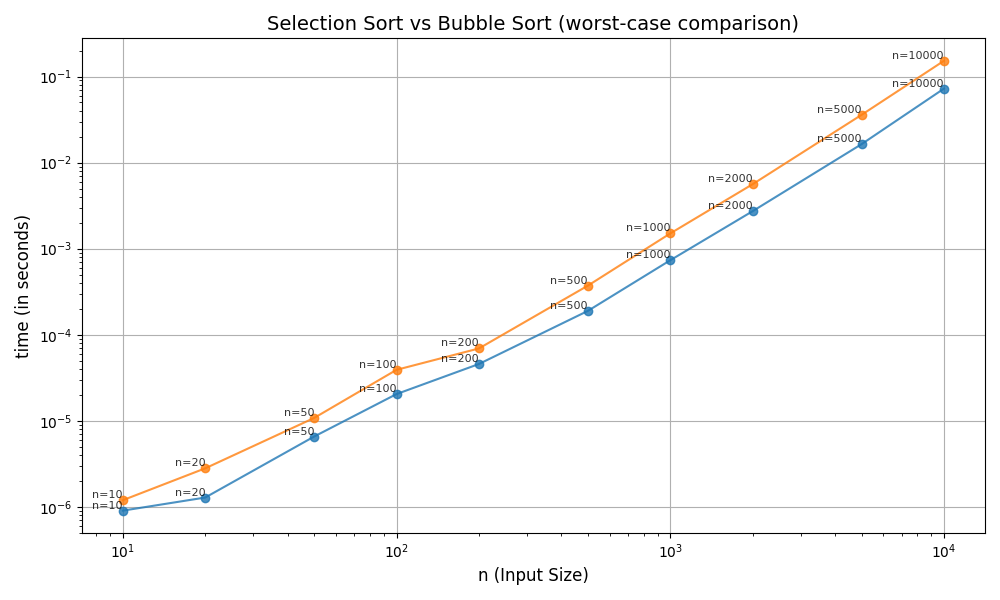
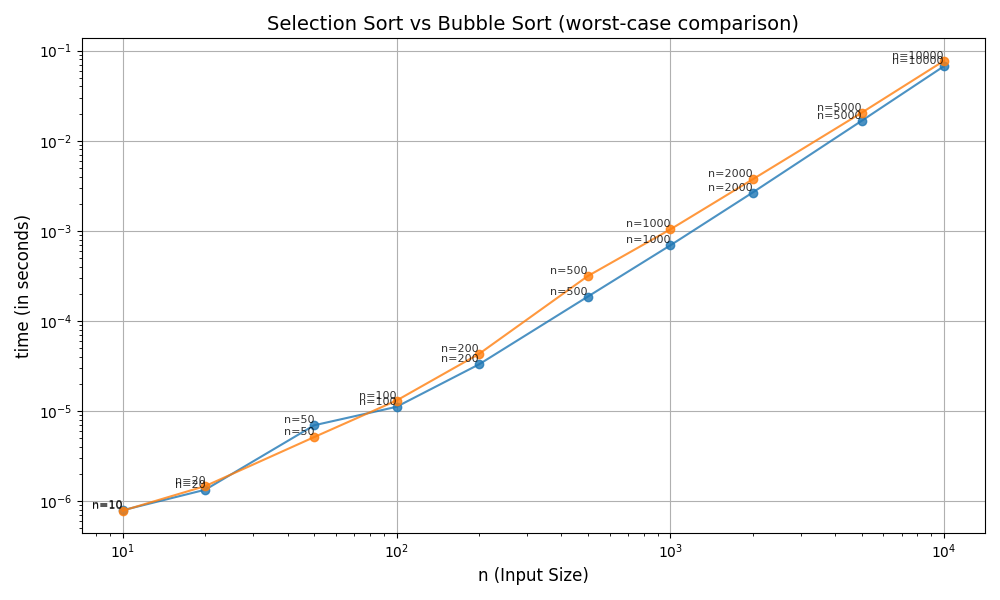
Corrected algorithm and array population logic

diff --git a/selectionsort_vs_bubblesort/sort_evaluation.c b/selectionsort_vs_bubblesort/sort_evaluation.c
@@ -20,11 +20,11 @@ void selectionsort(int* arr, int n) {
 
 void bubblesort(int* arr, int n) {
     for(int i = 0; i < n-1; i++) {
-        for(int j = 0; j < n-2; j++) {
+        for(int j = 0; j < n-1-i; j++) {
             if (arr[j] > arr[j+1]) {
                 int temp = arr[j];
                 arr[j] = arr[j+1];
-                arr[j+1] = arr[j];
+                arr[j+1] = temp;
             }
         }
     }
@@ -71,14 +71,18 @@ int main(void) {
         }
 
         for (int j = 0; j < n[i]; j++) {
+        if (j == 0) {
+            arr[j] = rand() % (n[i] + 1);
+        } else {
             int gen = rand() % (n[i] + 1);
             if (gen <= arr[j-1]) {
                 arr[j] = gen;
             }
         }
+}
 
-        double time_elapsed_selsort = calculate_selsort(1000, n[i], arr);
-        double time_elapsed_bubsort = calculate_bubsort(1000, n[i], arr);
+        double time_elapsed_selsort = calculate_selsort(10000, n[i], arr);
+        double time_elapsed_bubsort = calculate_bubsort(10000, n[i], arr);
 
         printf("\nFor n = %d elements:\n", n[i]);
         printf("Selection Sort: %11.4e\tBubble Sort: %11.4e\n", time_elapsed_selsort, time_elapsed_bubsort);
